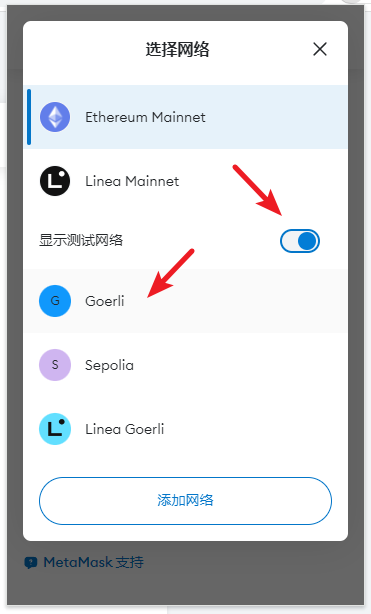
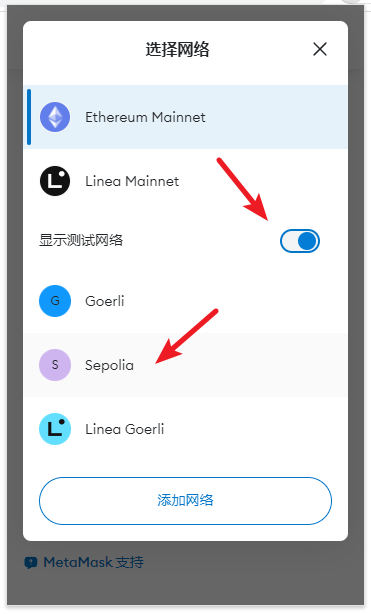
Chapter 8 Update

diff --git a/Web3-World/8.1-Wallet.md b/Web3-World/8.1-Wallet.md
@@ -55,7 +55,7 @@
 
 ![点击切换网络](images/Metamask2.png)
 
-2. 将显示测试网设置打开，并选择 Goerli 测试网
+2. 将显示测试网设置打开，并选择 Sepolia 测试网
 
 ![切换至 Goerli 测试网](images/Metamask3.png)
 
@@ -63,9 +63,17 @@
 
 此时，一般我们的钱包内只会显示 ETH 一种代币，即便你的钱包内存在其他代币也不会显示出来，我们需要导入代币的合约地址 <sup>[2]</sup>，将其导入，之后你就会看到该代币的余额。
 
-点击添加代币并输入争议的合约地址后，我们就可以在列表里看到对应代币。如输入：0xA2025B15a1757311bfD68cb14eaeFCc237AF5b43，可加载 Goerli 测试网上的 USDC 代币。
+点击添加代币并输入争议的合约地址后，我们就可以在列表里看到对应代币。如输入：0x94a9D9AC8a22534E3FaCa9F4e7F2E2cf85d5E4C8，可加载 Sepolia 测试网上的 USDC 代币。
 
-![切换至 Goerli 测试网](images/Metamask4.png)
+![切换至 Sepolia 测试网](images/Metamask4.png)
+
+Sepolia 测试网各代币合约地址：
+- USDC：0x94a9D9AC8a22534E3FaCa9F4e7F2E2cf85d5E4C8
+- USDT：0xaA8E23Fb1079EA71e0a56F48a2aA51851D8433D0
+- DAI：0xFF34B3d4Aee8ddCd6F9AFFFB6Fe49bD371b8a357
+- WBTC：0x29f2D40B0605204364af54EC677bD022dA425d03
+- LXDAO USD:
+
 
 [详细操作步骤 点击此处查看](https://metatraining.buidlerdao.xyz/1-2-7212e781e7874effa144d88dc2a5cbe2)
 

diff --git a/Web3-World/8.2-Gas.md b/Web3-World/8.2-Gas.md
@@ -1,0 +1,3 @@
+# 领取 Gas 与测试币
+
+Building

diff --git a/Web3-World/8.5-Etherscan-Web3-injection.md b/Web3-World/8.5-Etherscan-Web3-injection.md
@@ -1,0 +1,1 @@
+# 通过区块浏览器访问合约

diff --git a/Web3-World/8.4-Lending-and-NFT.md b/Web3-World/8.4-Lending-and-NFT.md
@@ -1,0 +1,1 @@
+# 探索其他链上活动

diff --git a/Web3-World/8.3-Swap.md b/Web3-World/8.3-Swap.md
@@ -1,0 +1,1 @@
+# Swap 实操
